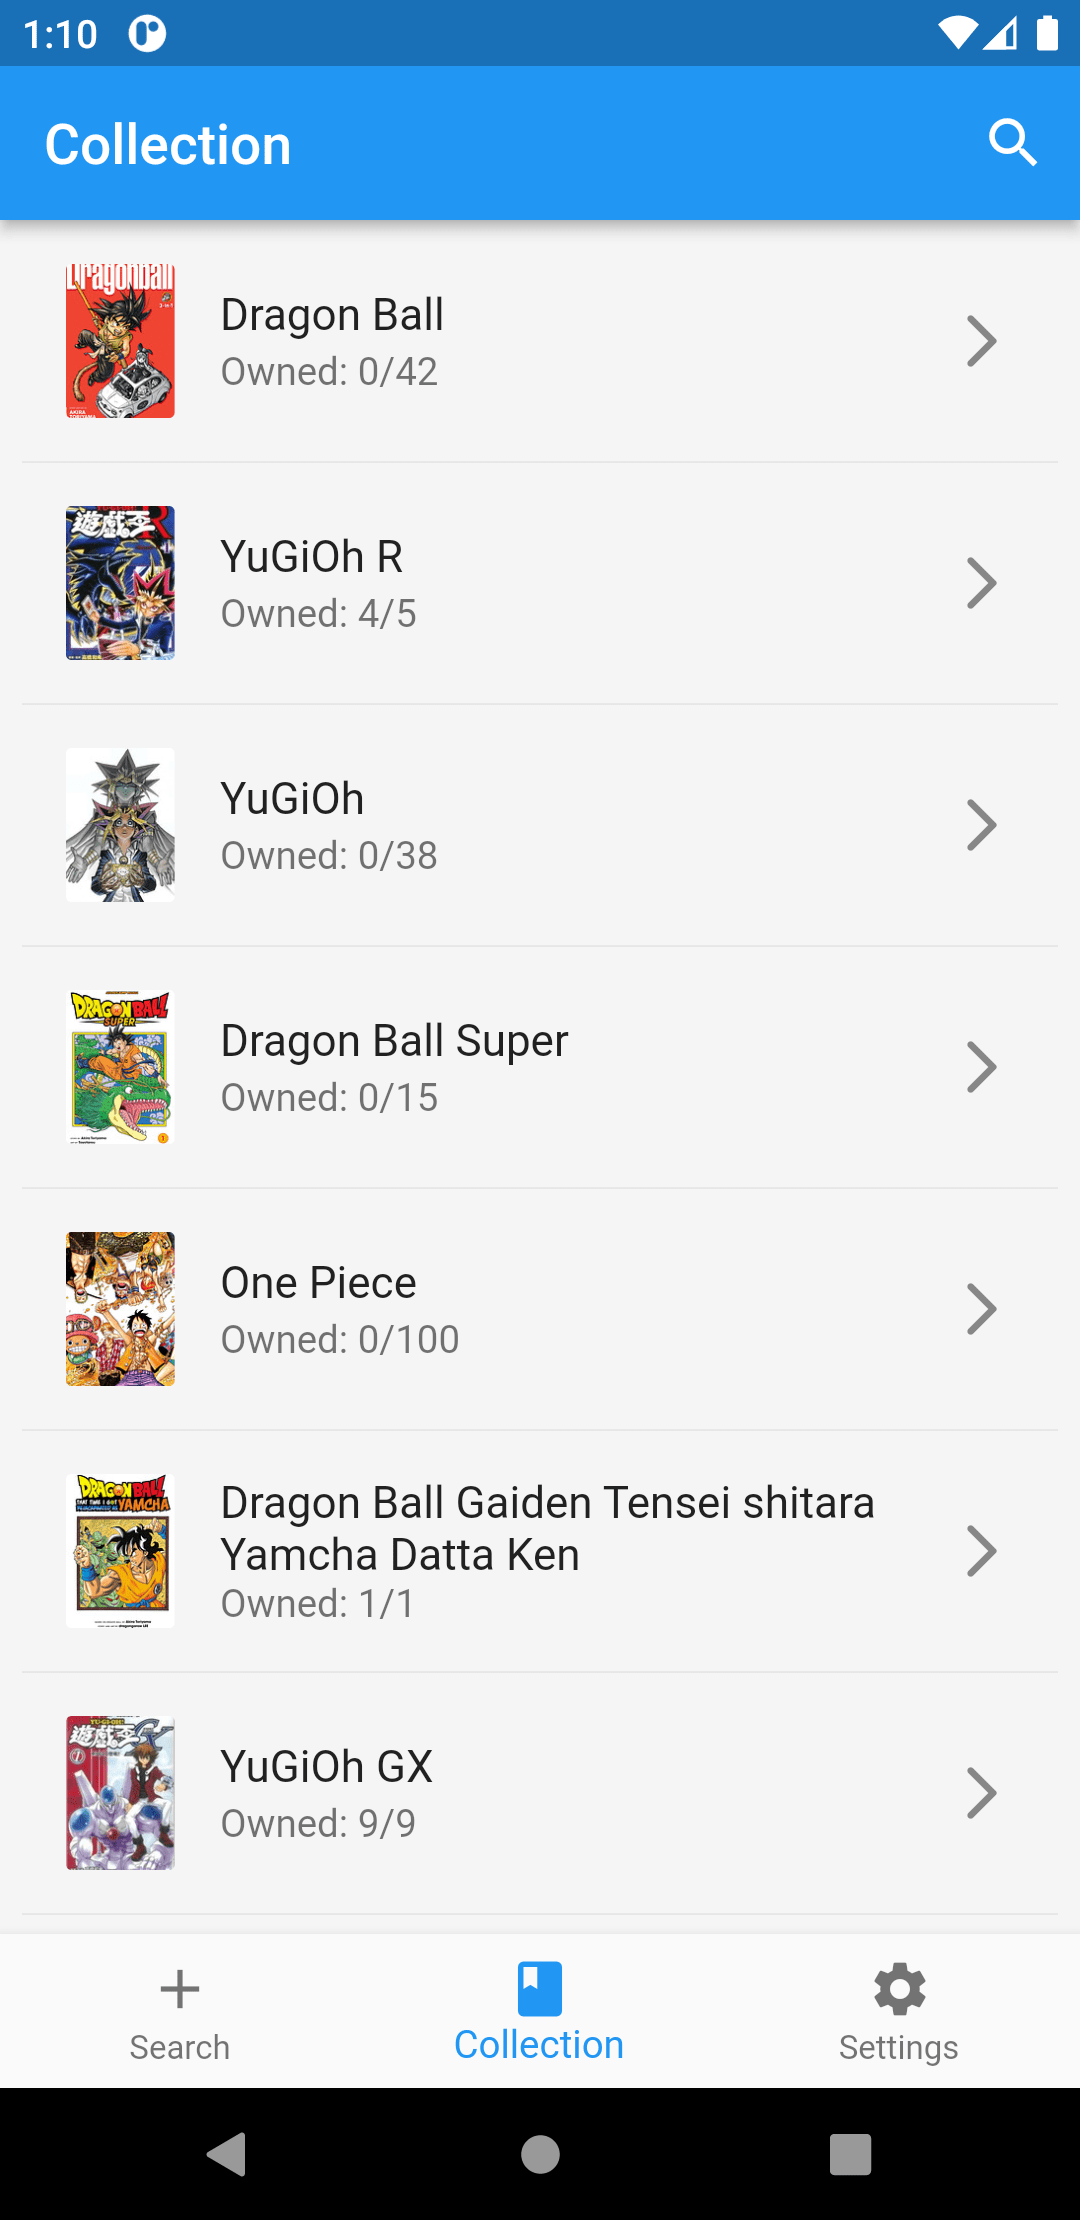
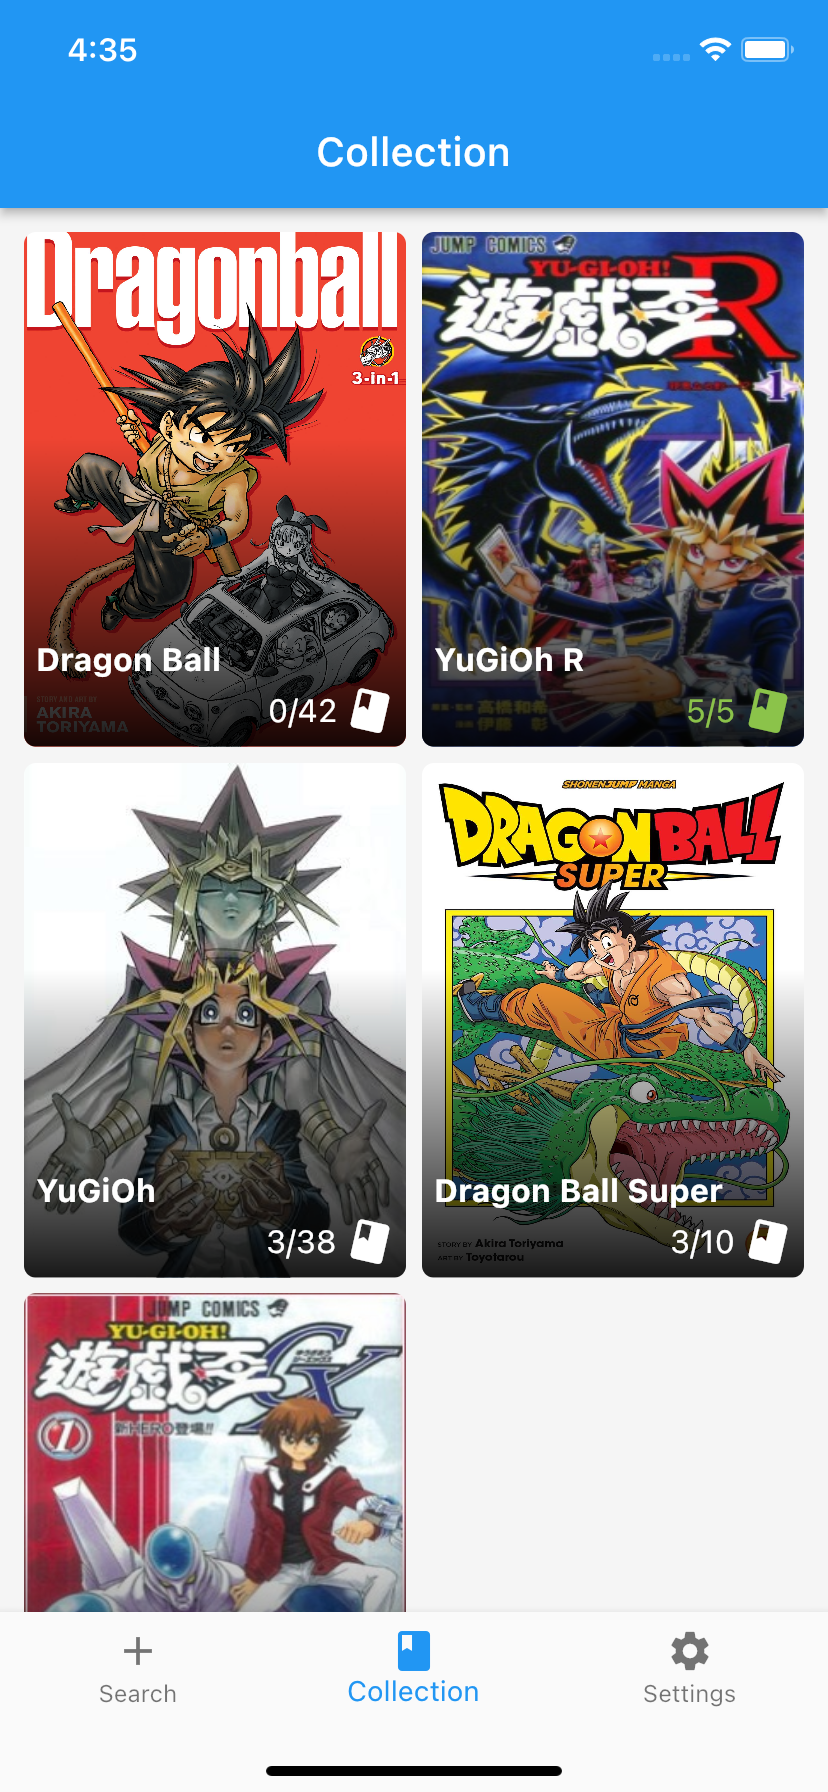
updated screenshots

diff --git a/lib/presentation/views/common/owned_widget.dart b/lib/presentation/views/common/owned_widget.dart
@@ -17,17 +17,22 @@ class OwnedWidget extends StatelessWidget {
     final theme = Theme.of(context);
     final appTextStyles = theme.extension<AppTextStyles>();
     final appColors = theme.extension<AppColors>();
+
+    final completed = total != null && total! > 0 && owned == total;
+    final color = completed ? Colors.lightGreen : appColors?.ownedCounter;
+    final style = appTextStyles?.ownedCounter?.copyWith(color: color);
+
     return Row(
       mainAxisSize: MainAxisSize.min,
       children: [
         Text(
           total == null || total == 0 ? '?' : '$owned/$total',
-          style: appTextStyles?.ownedCounter,
+          style: style,
         ),
         const SizedBox(width: 4),
         Transform.rotate(
           angle: math.pi / 14,
-          child: Icon(Icons.book, color: appColors?.ownedCounter),
+          child: Icon(Icons.book, color: color),
         ),
       ],
     );
